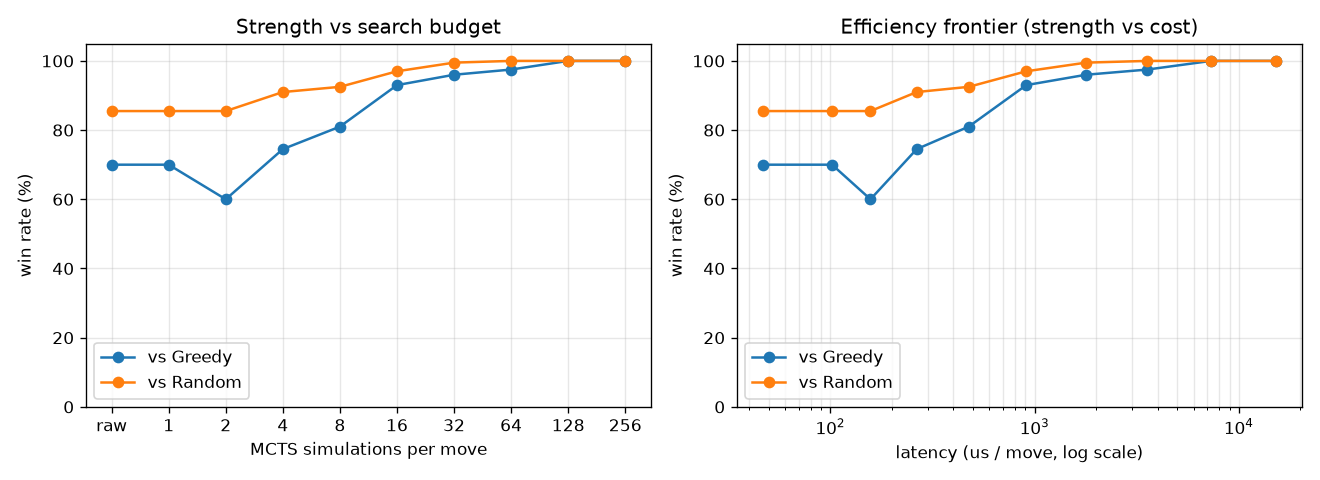
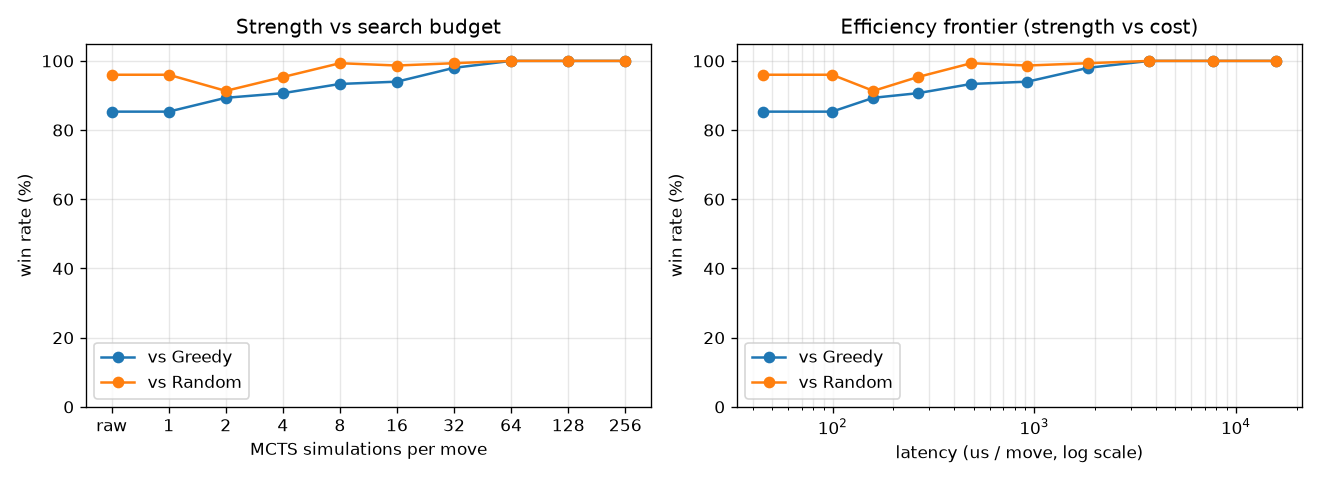
Add terminal play CLI; consistent script defaults; regenerate plots
scripts/play.py: play Kalah against the agent in the terminal. ASCII board, type a pit letter, agent replies and shows its value-head read. Robust parsing; extra turns and captures handled by the engine.

Also point script --champion/--log defaults at runs/ so train-then-evaluate works out of the box, and regenerate the training-curve and strength-vs-search figures from runs_v5.

diff --git a/scripts/play.py b/scripts/play.py
@@ -1,0 +1,118 @@
+"""Play Kalah against the trained agent, in the terminal.
+
+    python scripts/play.py                       # you move first; agent searches 256 sims
+    python scripts/play.py --seat 2 --sims 400   # agent moves first; stronger agent
+
+Type the letter of a pit on your side to sow it ('q' quits). Sowing goes
+counter-clockwise toward your store; landing your last seed in your own store
+earns another turn, and landing in one of your own empty pits captures.
+"""
+
+import argparse
+import pathlib
+import random
+import sys
+
+sys.path.insert(0, str(pathlib.Path(__file__).resolve().parent.parent))
+
+import torch
+
+from mancala_rl import engine
+from mancala_rl.network import load_net, encode_batch
+from mancala_rl.mcts import MCTSBot
+
+LETTERS = {1: "ABCDEF", 2: "GHIJKL"}        # pit labels for each player's side
+
+
+def render(state, human_seat):
+    b = state.board
+    top = "".join(f"[{b[7 + i]:>2} ]" for i in range(6))      # G..L (player 2)
+    bot = "".join(f"[{b[i]:>2} ]" for i in range(6))          # A..F (player 1)
+    who = lambda seat: "you " if seat == human_seat else "bot "
+    return "\n".join([
+        "",
+        "      " + "".join(f"{c:^5}" for c in "GHIJKL"),
+        "    " + top + f"   P2 ({who(2)}) store {b[13]:>2}",
+        "    " + bot + f"   P1 ({who(1)}) store {b[6]:>2}",
+        "      " + "".join(f"{c:^5}" for c in "ABCDEF"),
+        "",
+    ])
+
+
+def agent_favor(net, device, state, agent_seat):
+    """Value-head read of the position, from the agent's fixed perspective."""
+    with torch.no_grad():
+        _, v = net(encode_batch([state], device))
+    v = float(v[0])
+    return v if state.current_player == agent_seat else -v
+
+
+def main():
+    p = argparse.ArgumentParser(description=__doc__,
+                                formatter_class=argparse.RawDescriptionHelpFormatter)
+    p.add_argument("--champion", default="runs/best.pt")
+    p.add_argument("--sims", type=int, default=256, help="agent MCTS simulations")
+    p.add_argument("--seat", type=int, choices=(1, 2), default=1, help="your seat (1 = first)")
+    p.add_argument("--device", default="cpu")
+    args = p.parse_args()
+
+    device = torch.device(args.device)
+    net = load_net(args.champion, device)
+    agent = MCTSBot(net, device, n_simulations=args.sims)
+    human, bot = args.seat, (2 if args.seat == 1 else 1)
+    rng = random.Random()
+
+    print(f"\nYou are P1 (you move first)." if human == 1
+          else "\nYou are P2 (the agent moves first).")
+    print(f"Agent: {args.champion} at {args.sims} sims.")
+
+    state = engine.reset(first_player=1)
+    info = {"winner": None}
+    while True:
+        print(render(state, human))
+        legal = engine.legal_moves(state)
+        mover = state.current_player
+
+        if mover == human:
+            choices = "/".join(LETTERS[human][a] for a in legal)
+            try:
+                raw = input(f"Your move ({choices}, q=quit): ").strip().upper()
+            except EOFError:
+                raw = "Q"
+            # take the first recognized pit letter (or Q) -- robust to stray bytes
+            pick = next((c for c in raw if c in LETTERS[human] or c == "Q"), "")
+            if pick == "Q":
+                print("\nthanks for playing.")
+                return
+            if pick == "" or LETTERS[human].index(pick) not in legal:
+                print("  -> not a legal move; try again.")
+                continue
+            action = LETTERS[human].index(pick)
+        else:
+            action = agent.act(state, rng)
+            print(f"Agent plays {LETTERS[bot][action]}.")
+
+        state, _, done, info = engine.step(state, action)
+
+        if mover == bot and not done:
+            fav = agent_favor(net, device, state, bot)
+            mood = "ahead" if fav > 0.15 else ("behind" if fav < -0.15 else "even")
+            print(f"   (agent's read: {fav:+.2f} -> it thinks it's {mood})")
+        if not done and state.current_player == mover:
+            print(f"   ({'you get' if mover == human else 'agent gets'} an extra turn)")
+        if done:
+            break
+
+    print(render(state, human))
+    s1, s2 = engine.stores(state)
+    mine, theirs = (s1, s2) if human == 1 else (s2, s1)
+    if info["winner"] == 0:
+        print(f"Draw, {mine}-{theirs}.")
+    elif info["winner"] == human:
+        print(f"You win, {mine}-{theirs}. Nice.")
+    else:
+        print(f"Agent wins, {theirs}-{mine}.")
+
+
+if __name__ == "__main__":
+    main()

diff --git a/scripts/tournament.py b/scripts/tournament.py
@@ -91,7 +91,7 @@ def write_matrix_csv(path, names, matrix):
 def main():
     ap = argparse.ArgumentParser(description=__doc__,
                                  formatter_class=argparse.RawDescriptionHelpFormatter)
-    ap.add_argument("--champion", default="runs_v5/best.pt")
+    ap.add_argument("--champion", default="runs/best.pt")
     ap.add_argument("--games", type=int, default=30, help="games per seat per pairing")
     ap.add_argument("--sims", type=int, default=800, help="MCTS simulations for our agent")
     ap.add_argument("--depths", type=int, nargs="+", default=[4, 6, 8, 10],

diff --git a/scripts/depth_sweep.py b/scripts/depth_sweep.py
@@ -30,7 +30,7 @@ from mancala_rl.evaluate import play_game
 def main():
     p = argparse.ArgumentParser(description=__doc__,
                                 formatter_class=argparse.RawDescriptionHelpFormatter)
-    p.add_argument("--champion", default="runs/champion.pt")
+    p.add_argument("--champion", default="runs/best.pt")
     p.add_argument("--games", type=int, default=40, help="games per seat per depth")
     p.add_argument("--sims", type=int, default=100)
     p.add_argument("--depths", type=int, nargs="+", default=[4, 6, 8, 10, 12])

diff --git a/scripts/evaluate_agent.py b/scripts/evaluate_agent.py
@@ -26,7 +26,7 @@ from mancala_rl.evaluate import evaluate
 def main():
     p = argparse.ArgumentParser(description=__doc__,
                                 formatter_class=argparse.RawDescriptionHelpFormatter)
-    p.add_argument("--champion", default="runs/champion.pt")
+    p.add_argument("--champion", default="runs/best.pt")
     p.add_argument("--games", type=int, default=400)
     p.add_argument("--sims", type=int, default=100, help="agent MCTS simulations")
     p.add_argument("--solver-depth", type=int, default=8)

diff --git a/scripts/strength_vs_search.py b/scripts/strength_vs_search.py
@@ -43,7 +43,7 @@ def latency_us(bot, reps):
 def main():
     p = argparse.ArgumentParser(description=__doc__,
                                 formatter_class=argparse.RawDescriptionHelpFormatter)
-    p.add_argument("--champion", default="runs_final/best.pt")
+    p.add_argument("--champion", default="runs/best.pt")
     p.add_argument("--games", type=int, default=200)
     p.add_argument("--sims", type=int, nargs="+",
                    default=[0, 1, 2, 4, 8, 16, 32, 64, 128, 256])

diff --git a/scripts/plot_training.py b/scripts/plot_training.py
@@ -20,7 +20,7 @@ import matplotlib.pyplot as plt
 
 def main():
     p = argparse.ArgumentParser()
-    p.add_argument("--log", default="runs_final/training_log.csv")
+    p.add_argument("--log", default="runs/training_log.csv")
     p.add_argument("--out", default="assets/training_curve.png")
     p.add_argument("--solver-games", type=int, default=40)
     p.add_argument("--solver-depth", type=int, default=8)
